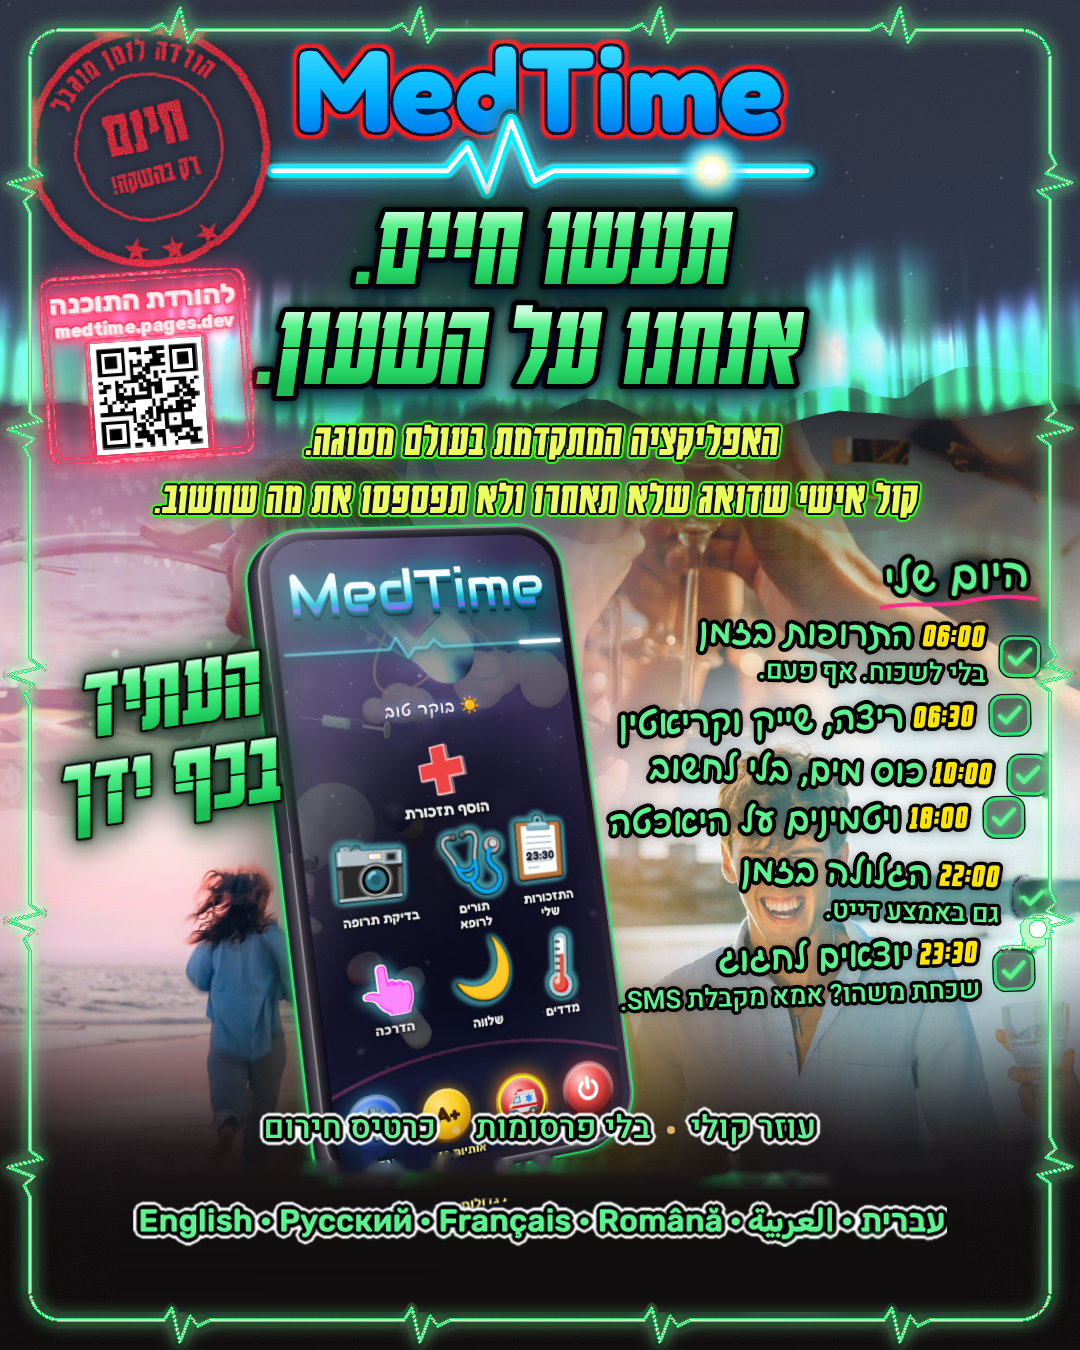
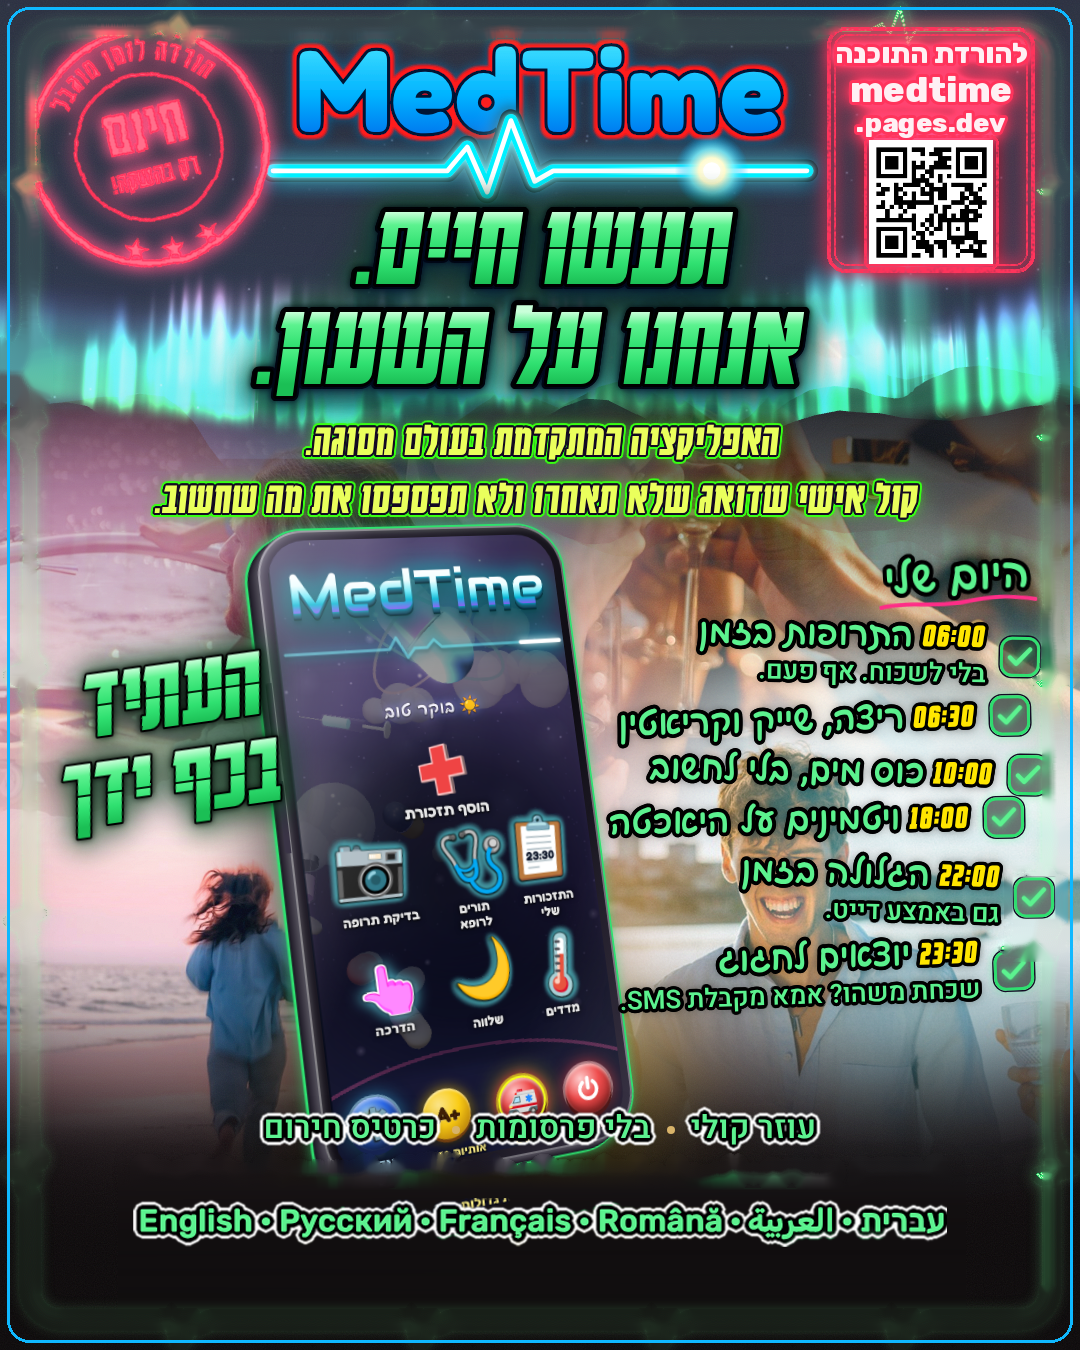
Ad rounds 3+4: download stamp top-right, neon stamps, thin blue edge frame [skip ci]
Account: main · thread 'MedTime – שיחה חדשה'

Claude-Session: https://claude.ai/code/session_01VsxPbo6X9KYMbXyBhgnXSS

Changed region(s): [[0.0, 0.0, 1.0, 0.9956]]

diff --git a/media/ads/src/premium_fix3.py b/media/ads/src/premium_fix3.py
@@ -1,0 +1,120 @@
+# Round 3 (Roni 14:04): download stamp moves to the top-right, opposite the red stamp,
+# bigger clearer address (2 lines), no tilt; the red stamp also gets a neon glow.
+# Same as round 2 otherwise. Run on the ROUND-1 image (cdddeed), not on round 2.
+# Round 2 on media/ads/MedTime-ad-premium.png (Roni 2026-10-23 ~14:00):
+# - remove the bottom URL pill + QR, remove "6 שפות", move the language row down (more room)
+# - under the red stamp: "להורדת התוכנה" + medtime.pages.dev + the same QR, stamp style, neon
+# Run: python3 premium_fix2.py CUR.png ORIG_ddc63a0.png FONTDIR OUT.png
+import sys, numpy as np, cv2
+from scipy import ndimage as nd
+from PIL import Image, ImageDraw, ImageFont
+cur_p, orig_p, fd, out = sys.argv[1:5]
+img = np.array(Image.open(cur_p).convert('RGB')).astype(np.float32)
+org = np.array(Image.open(orig_p).convert('RGB')).astype(int)
+H, W = img.shape[:2]
+def disk(n):
+    y, x = np.ogrid[-n:n+1, -n:n+1]; return x*x + y*y <= n*n
+def over(base, col, al):
+    return base*(1-al[..., None]) + np.array(col, np.float32)*al[..., None]
+def inpaint(im, m):
+    u = np.clip(im, 0, 255).astype(np.uint8)
+    return cv2.inpaint(u, m.astype(np.uint8)*255, 7, cv2.INPAINT_TELEA).astype(np.float32)
+
+# QR image from the original (unchanged modules)
+qr = org[1194:1290, 706:802].astype(np.float32)
+
+# language row mask (same as fix1) -> letters + white ring
+a = org
+row = np.zeros((H, W), bool); row[1155:1194, 90:1000] = True
+txt = (np.abs(a - [92, 242, 143]).sum(2) < 60) & row
+tl, tn = nd.label(txt, np.ones((3, 3))); ts = nd.sum(txt, tl, range(1, tn+1))
+txt = np.isin(tl, np.nonzero(ts >= 6)[0] + 1)
+six = np.zeros((H, W), bool); six[1150:1198, 840:960] = True   # "6 שפות" (yellow)
+lang = nd.binary_dilation(txt, disk(4)); lang = nd.binary_dilation(lang, disk(3))
+dots = np.zeros((H, W), bool)
+# bullets between languages are gold dots inside the row: keep them
+gold = (np.abs(a - [205, 170, 110]).sum(2) < 90) & row & ~six
+dots = nd.binary_dilation(gold, disk(2))
+keep = (lang | dots) & ~six
+ys, xs = np.nonzero(keep); bx0, bx1, by0, by1 = xs.min(), xs.max()+1, ys.min(), ys.max()+1
+rowimg = img[by0:by1, bx0:bx1].copy()
+rowal = cv2.GaussianBlur(keep[by0:by1, bx0:bx1].astype(np.float32), (3, 3), 0)
+
+# frame pixels to protect
+ci = img.astype(int); g, r, b_ = ci[..., 1], ci[..., 0], ci[..., 2]
+fmk = ((g > 150) & (g - r > 40) & (g - b_ > 20)) | ((g > 235) & (r > 120) & (g - r > 30))
+lb, nl = nd.label(fmk, np.ones((3, 3)))
+frame = nd.binary_dilation(lb == (np.argmax(nd.sum(fmk, lb, range(1, nl+1))) + 1), disk(4))
+
+# clear 2: old language row letters + "6 שפות" (thin shapes -> inpaint)
+sixm = six & nd.binary_dilation(np.abs(a - [255, 213, 74]).sum(2) < 60, disk(8))
+clr = nd.binary_dilation(lang | dots | sixm, disk(2))
+img = inpaint(img, clr & ~frame)
+
+# clear 1: the pill/QR band -> per-row blend of the background just left/right of it
+X0, X1, Y0, Y1 = 118, 966, 1160, 1312
+lc = img[Y0:Y1, X0-8:X0-3].mean(1); rc = img[Y0:Y1, X1+3:X1+8].mean(1)
+t = np.linspace(0, 1, X1-X0)[None, :, None]
+fill = lc[:, None]*(1-t) + rc[:, None]*t
+fill = cv2.GaussianBlur(fill, (0, 0), 2)
+fm = ~frame[Y0:Y1, X0:X1]
+ramp = np.clip((np.arange(Y1-Y0) - 0) / 30.0, 0, 1)[:, None, None]  # soft top edge
+blk = img[Y0:Y1, X0:X1]; new = blk*(1-ramp) + fill*ramp
+blk[fm] = new[fm]; img[Y0:Y1, X0:X1] = blk
+# paste language row, bigger, centred lower
+s = 1.15
+nw, nh = int((bx1-bx0)*s), int((by1-by0)*s)
+ri = cv2.resize(rowimg, (nw, nh), interpolation=cv2.INTER_CUBIC); ra = cv2.resize(rowal, (nw, nh))
+x0 = (W - nw)//2; y0 = 1222 - nh//2
+reg = img[y0:y0+nh, x0:x0+nw]; img[y0:y0+nh, x0:x0+nw] = reg*(1-ra[..., None]) + ri*ra[..., None]
+
+# ---- neon download stamp, top-right (mirror of the red stamp) ----
+NEON = (255, 52, 92); HOT = (255, 240, 244)
+bw, bh = 214, 252; X, Y = 824, 24
+fh = ImageFont.truetype(fd + '/rubik-hebrew-800-normal.ttf', 28)
+fa = ImageFont.truetype(fd + '/rubik-latin-800-normal.ttf', 36)
+fb_ = ImageFont.truetype(fd + '/rubik-latin-800-normal.ttf', 27)
+lines = [('להורדת התוכנה', fh, 12, 'rtl'), ('medtime', fa, 44, None), ('.pages.dev', fb_, 82, None)]
+q0, qs = 116, 124
+def layer(stroke, fill_text=True, frame_lines=True):
+    L = Image.new('L', (bw, bh), 0); d = ImageDraw.Draw(L)
+    if frame_lines:
+        d.rounded_rectangle((3, 3, bw-4, bh-4), 18, outline=255, width=4)
+        d.rounded_rectangle((10, 10, bw-11, bh-11), 13, outline=255, width=2)
+        d.rounded_rectangle(((bw-qs)/2-5, q0-5, (bw+qs)/2+5, q0+qs+5), 8, outline=255, width=3)
+    for t, f, y, dr in lines:
+        w = d.textlength(t, font=f, direction=dr) if dr else d.textlength(t, font=f)
+        kw = dict(font=f, fill=255)
+        if dr: kw['direction'] = dr
+        if stroke: kw.update(stroke_width=stroke, stroke_fill=255)
+        if fill_text or stroke: d.text(((bw-w)/2, y), t, **kw)
+    return np.array(L).astype(np.float32)/255
+ink = layer(3)                      # frame lines + text with neon outline
+fillm = layer(0, frame_lines=False) # text body (white-hot)
+rng = np.random.default_rng(7)
+spk = cv2.GaussianBlur((rng.random((bh, bw)) > 0.9).astype(np.float32), (3, 3), 0)
+linesm = layer(0, fill_text=False)
+ink = np.maximum(ink - linesm*np.clip(spk*1.2, 0, 0.6), 0)   # light stamp texture on the border only
+xq = (bw-qs)//2
+qrimg = cv2.resize(qr, (qs, qs), interpolation=cv2.INTER_NEAREST)
+def place(m):
+    z = np.zeros((H, W), np.float32); z[Y:Y+bh, X:X+bw] = m; return z
+big, fb, bq = place(ink), place(fillm), np.zeros((H, W), np.float32); bq[Y+q0:Y+q0+qs, X+xq:X+xq+qs] = 1
+img = img*(1 - 0.7*np.clip(cv2.GaussianBlur(np.maximum(big, bq), (0, 0), 8)*2.5, 0, 1))[..., None]
+gl = np.clip(cv2.GaussianBlur(big, (0, 0), 9)*1.8, 0, 1); img = img + np.array(NEON, np.float32)*gl[..., None]
+gl2 = np.clip(cv2.GaussianBlur(bq, (0, 0), 9)*1.6, 0, 1); img = img + np.array(NEON, np.float32)*gl2[..., None]*0.5
+img = over(img, NEON, big)
+img = over(img, HOT, fb)
+img[Y+q0:Y+q0+qs, X+xq:X+xq+qs] = qrimg
+
+# ---- red stamp: neon glow ----
+st = np.zeros((H, W), bool); st[10:285, 15:290] = True
+ci = np.clip(img, 0, 255).astype(int)
+red = st & (ci[..., 0] > 140) & (ci[..., 0] - ci[..., 1] > 70) & (ci[..., 0] - ci[..., 2] > 50)
+rm = cv2.GaussianBlur(red.astype(np.float32), (3, 3), 0)
+glr = np.clip(cv2.GaussianBlur(rm, (0, 0), 8)*2.0, 0, 1)
+img = img + np.array(NEON, np.float32)*glr[..., None]*0.8
+img = over(img, NEON, rm*0.9)
+img = over(img, (255, 190, 200), np.clip(cv2.erode(rm, np.ones((3, 3), np.uint8)) - 0.4, 0, 1)*0.7)
+Image.fromarray(np.clip(img, 0, 255).astype(np.uint8)).save(out)
+print('ok', x0, y0, nw, nh)

diff --git a/media/ads/src/premium_fix4.py b/media/ads/src/premium_fix4.py
@@ -1,0 +1,48 @@
+# Round 4 (Roni 14:04): remove the neon ECG frame; instead a thin, plain frame at the very edge
+# in the MedTime title blue (#0fb8ff), touching nothing. Run on the round-3 image.
+import sys, numpy as np, cv2
+from scipy import ndimage as nd
+from PIL import Image
+src, out = sys.argv[1:3]
+img = np.array(Image.open(src).convert('RGB'))
+a = img.astype(int); r, g, b = a[..., 0], a[..., 1], a[..., 2]
+H, W = r.shape
+def disk(n):
+    y, x = np.ogrid[-n:n+1, -n:n+1]; return x*x + y*y <= n*n
+m = ((g > 120) & (g - r > 35) & (g - b > 15)) | ((g > 220) & (r > 110) & (g - r > 25))
+lab, n = nd.label(m, np.ones((3, 3)))
+frame = lab == (np.argmax(nd.sum(m, lab, range(1, n+1))) + 1)
+yy, xx = np.mgrid[0:H, 0:W]
+band = (xx < 50) | (xx > 1044) | (yy < 48) | (yy > 1284)   # frame only; keeps the check boxes
+frame &= band
+# the old line + its soft green glow around it
+near = nd.binary_dilation(frame, disk(9))
+glow = near & (g - r > 8) & (g - b > -5) & band
+hole = nd.binary_dilation(frame, disk(3)) | glow
+fixed = cv2.inpaint(img[:, :, ::-1].copy(), hole.astype(np.uint8)*255, 9, cv2.INPAINT_TELEA)[:, :, ::-1]
+im = Image.fromarray(fixed)
+from PIL import ImageDraw
+d = ImageDraw.Draw(im)
+d.rounded_rectangle((7, 7, W-8, H-8), 22, outline=(15, 184, 255), width=3)
+im.save(out)
+print('frame px', frame.sum())
+
+# repair the 22:00 check box (damaged by the old frame spike + glowing dot in round 1):
+# clean the area, then copy the identical 18:00 check box from the original ad (ddc63a0)
+if len(sys.argv) > 3:
+    org = np.array(Image.open(sys.argv[3]).convert('RGB'))
+    im2 = np.array(Image.open(out).convert('RGB'))
+    ci = im2.astype(int)
+    area = np.zeros((H, W), bool); area[862:962, 1004:1068] = True
+    blob = area & ((ci[..., 1] - ci[..., 0] > 30) | (ci.min(2) > 225) | (np.abs(ci - [72, 72, 72]).sum(2) < 60))
+    blob = nd.binary_dilation(blob, disk(3)) & area
+    im2 = cv2.inpaint(im2[:, :, ::-1].copy(), blob.astype(np.uint8)*255, 7, cv2.INPAINT_TELEA)[:, :, ::-1].copy()
+    tpl = org[795:841, 981:1027]
+    al = np.zeros((46, 46), np.uint8); cv2.rectangle(al, (2, 2), (43, 43), 255, -1)
+    al = cv2.GaussianBlur(al, (3, 3), 0).astype(np.float32)[..., None]/255
+    y0, x0 = 875, 1011
+    reg = im2[y0:y0+46, x0:x0+46].astype(np.float32)
+    im2[y0:y0+46, x0:x0+46] = (reg*(1-al) + tpl*al).astype(np.uint8)
+    im = Image.fromarray(im2); d = ImageDraw.Draw(im)
+    d.rounded_rectangle((7, 7, W-8, H-8), 22, outline=(15, 184, 255), width=3)
+    im.save(out)

diff --git a/handoff/HANDOFF.md b/handoff/HANDOFF.md
@@ -25,6 +25,7 @@
 17. M-318: הכתובת הרשמית https://medtime.pages.dev (Cloudflare Pages מתוך docs; השורש פותח את דף ההורדה). Cloudflare מדלג על commit עם [skip ci], אז שינוי ב-docs נדחף בלי זה. פרסומת ניאון/זוהר (ים, יאכטה, זיקוקים, 6 שפות, מסגרת זהב): MedTime-ad.mp4, MedTime-ad-neon.png, MedTime-ad-neon-phone.png, whatsapp_ad_he.txt ב-/mnt/project-files/medtime-share/. מקור: scratchpad/t/anim.html. ממתין מרוני: מייל ל"יצירת קשר".
 18. מודעת פרימיום (2026-10-23, אחרי שרוני פסל את הניאון): MedTime-ad-premium.png ב-/mnt/project-files/medtime-share/. צילומי Pexels אמיתיים (חינם, בלי קרדיט) דרך workflow ad-photos.yml (tools/ad_photos.py, '_pexels' עם מספרי תמונות) לענף adimg. Unsplash ו-Openverse חסומים מ-Actions. רוני רוצה: יוקרה, לא עמוס, בלי אימוג'ים או איורים, קריצה לכל גיל. מצב 2026-10-23 13:03Z: מוטו ו"העתיד בכף ידך" בסגנון צג שעון דיגיטלי (Karantina 700, נטוי, ירוק #2fe070 עם פס סגמנט דק וקו שחור דק), לוגו עם הילה אדומה דקה, פס אקג טורקיז זרחני עם נקודה זוהרת, כל כיתוב הרשימה והשורות התחתונות בירוק #5cf28f עם קו כהה (רוני בחר ירוק), שעות ו'6 שפות' בזהב, הילה ירוקה דקה סביב הטלפון. הסרטון: רוני אמר לעזוב אותו כרגע, לא להעלות עד שיבקש. מקור: scratchpad/t/premium.html (נבנה מ-premium_v6_brush.html עם lcd.py).
 
+22. 2026-10-23 ~14:25: מודעה סבבים 3+4: חותמת הורדה זרחנית בפינה הימנית מול החותמת האדומה (שתיהן זוהרות), מסגרת ניאון בוטלה ובמקומה מסגרת כחולה דקה בקצה. ממתין לאישור רוני. פירוט ב-handoff/SYNC-LOG.md.
 21. 2026-10-23 ~14:15: מודעה סבב 2: הכתובת והברקוד עברו לחותמת ניאון אדומה מתחת לחותמת ("להורדת התוכנה"), שורת השפות בלי "6 שפות", גדולה וממורכזת למטה. ממתין לאישור רוני. פירוט ב-handoff/SYNC-LOG.md.
 20. 2026-10-23 ~14:05: מודעה עודכנה (עריכה על התמונה עצמה): מסגרת דקה, כתובת+ברקוד גדולים ובולטים מתחת לשורת השפות, לבן סביב האותיות בשורות התחתונות. ממתין לאישור רוני. כל שינוי נרשם עם חתימה ב-handoff/SYNC-LOG.md (כלל חדש לשני החשבונות). ממתין גם: מייל ל"יצירת קשר".
 19. מודעה, 2026-10-23 13:43 (שיחה חדשה ממשיכה מכאן): התמונה האחרונה שמורה במאגר media/ads/MedTime-ad-premium.png (קובץ המקור premium.html אבד בחשבון השני; העריכה היא על התמונה, או בנייה מחדש מצילומי ענף adimg). רוני ביקש: (1) להבליט את שורת הכתובת medtime.pages.dev ואת הברקוד, בלי לעלות על שורת השפות; (2) מסגרת ניאון דקה יותר; (3) קו לבן סביב האותיות בשורות התחתונות. ממתין גם: מייל ל"יצירת קשר". כלל: כל קובץ פלט נשמר גם במאגר (media/ads/).

diff --git a/handoff/SYNC-LOG.md b/handoff/SYNC-LOG.md
@@ -3,6 +3,15 @@
 כל שינוי נרשם כאן עם חתימה: מתי, איזה חשבון/שיחה, מה בדיוק, אילו קבצים, ואיך להחזיר אחורה.
 החדש ביותר למעלה. להחזרה: `git revert <commit>` או לקחת את הקובץ מה-commit הקודם.
 
+## 2026-10-23 ~14:25 · חשבון ראשי · שיחה "📌 MedTime – שיחה חדשה" (session_01VsxPbo6X9KYMbXyBhgnXSS)
+- מה: מודעת הפרימיום, סבבים 3+4:
+  1. חותמת ההורדה עברה לפינה הימנית העליונה, מול החותמת האדומה. כתובת גדולה בשתי שורות (medtime / .pages.dev), טקסט לבן-זוהר עם קו ניאון אדום, בלי הטיה; הברקוד 124px (אותו ברקוד מהמקור).
+  2. החותמת האדומה קיבלה זוהר ניאון.
+  3. מסגרת הניאון הירוקה עם קפיצות האק"ג בוטלה לגמרי; במקומה מסגרת דקה פשוטה (3px, פינות מעוגלות) בקצה התמונה, בכחול של הכותרת MedTime (#0fb8ff), לא נוגעת בכלום.
+  4. תיבת הסימון של 22:00 (נפגעה בסבב 1 ליד הנקודה הזוהרת) שוחזרה מהעתק של תיבת 18:00 מהמקור.
+- קבצים: media/ads/MedTime-ad-premium.png, media/ads/src/premium_fix3.py (רץ על תמונת סבב 1, cdddeed), media/ads/src/premium_fix4.py (רץ על פלט fix3 + המקור ddc63a0).
+- להחזרה: לקחת את התמונה מ-37ec640 (סבב 2) או cdddeed (סבב 1).
+
 ## 2026-10-23 ~14:15 · חשבון ראשי · שיחה "📌 MedTime – שיחה חדשה" (session_01VsxPbo6X9KYMbXyBhgnXSS)
 - מה: מודעת הפרימיום, סבב 2 (עריכה על התמונה מסבב 1):
   1. הוסרו מלמטה כפתור הכתובת והברקוד, והוסר הכיתוב "6 שפות".
